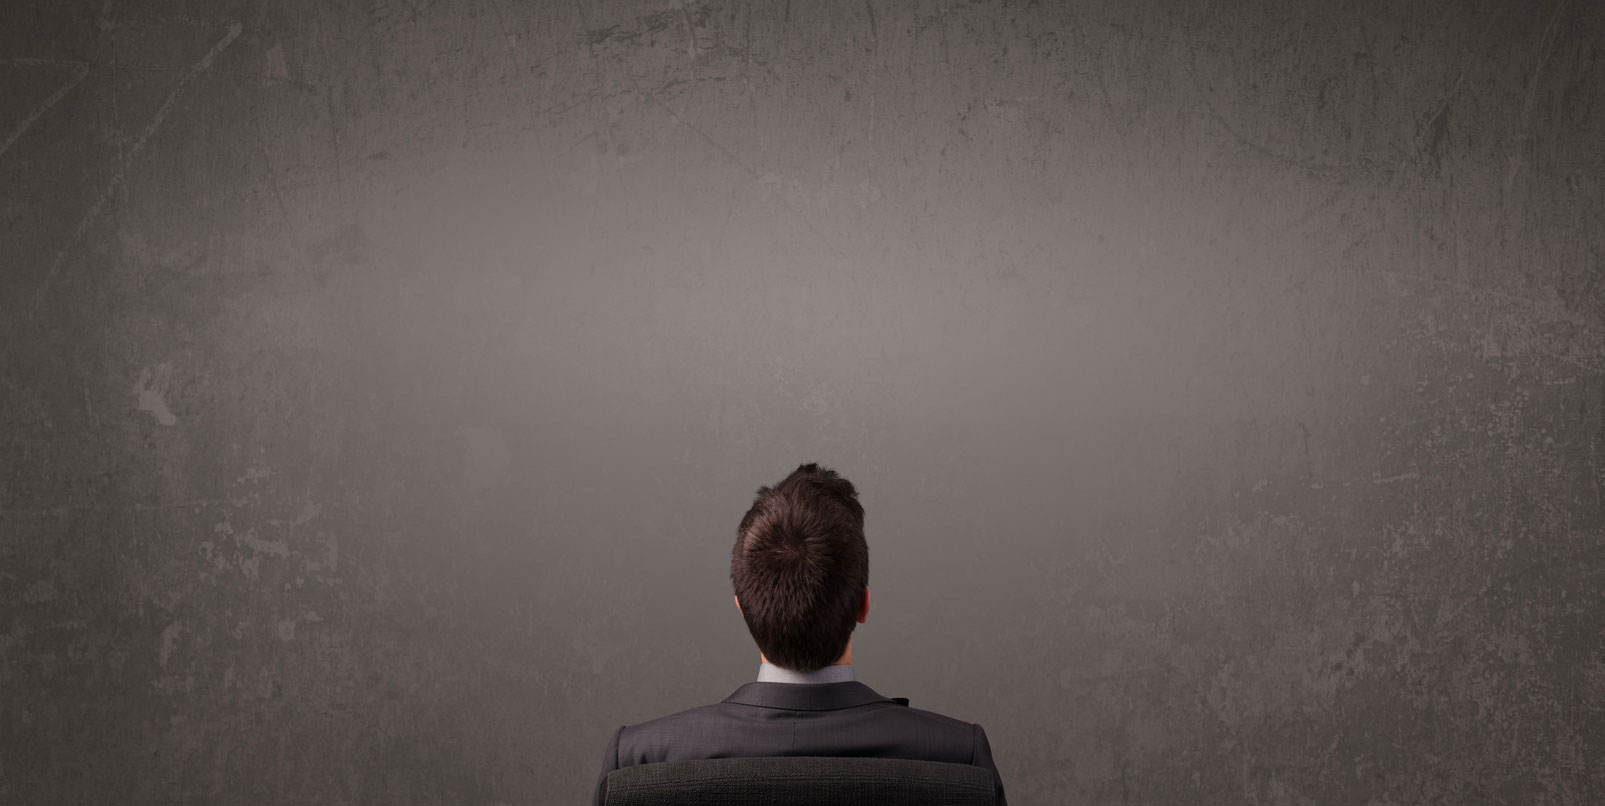
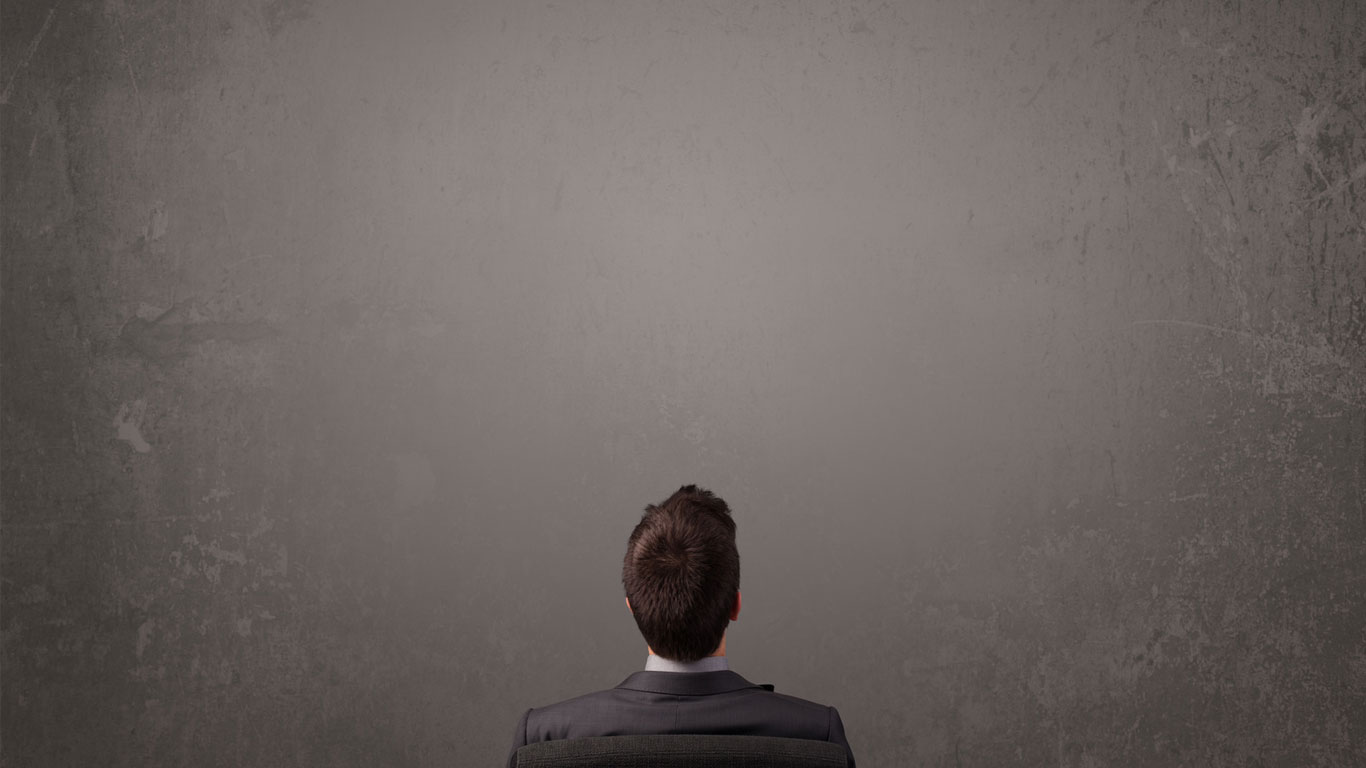
Portfolio: Added Media Queries for Different Aspect Ratios

diff --git a/portfolio/css/app.css b/portfolio/css/app.css
@@ -2,13 +2,10 @@ h1,h2,h3,h4,h5,h6,p {
     font-family: "jaf-bernino-sans-condensed", sans-serif;
 }
 
-#about {
-    background-image: url(../img/hero-image.jpg);
-    background-size: 100%;
-    background-repeat: no-repeat;
-    height:98%;
+#about {        
     color: white;
     text-align: center;
+    background-color: #000;
 }
 
 #about h1{
@@ -21,16 +18,33 @@ h1,h2,h3,h4,h5,h6,p {
     line-height:1;
 }
 
-@media only screen and (max-width: 375px) {
+@media only screen and (min-width: 0em) and (max-width: 39.9375em) {
+    #about {
+        background-image: url(../img/hero-image-small.jpg);
+        background-size: 100% 100%;
+        height: 100%;
+        background-repeat: no-repeat;
+    }
     span.intro {
         font-size: .5em;
     }
     span.name {
         font-size: 1.5em;
     }
+    
+    .lead {
+        font-size: 1em;
+    }
 }
 
-@media only screen and (min-width: 376px) and (max-width: 800px) {
+@media only screen and (min-width: 40em) {
+    #about {
+        background-image: url(../img/hero-image-medium.jpg);
+        background-size: 100% 100%;
+        height: 100%;
+        background-position: center bottom;        
+        background-repeat: no-repeat;
+    }
     span.intro {
         font-size: 1.0em;
     }
@@ -39,17 +53,25 @@ h1,h2,h3,h4,h5,h6,p {
     }
 }
 
-@media only screen and (min-width: 801px) {
+@media only screen and (min-width: 64em) {
+    #about {
+        background-image: url(../img/hero-image-large.jpg);
+        background-size: cover;
+        background-position:center bottom; 
+        height: 100%;
+        background-repeat: no-repeat;
+    }
     span.intro {
         font-size: 1.5em;
     }
     span.name {
         font-size: 3.5em;
-    }
+    }    
 }
 
 #work {
     text-align:center;
+    margin-top: 3.75em;
 }
 
 #work .column {
